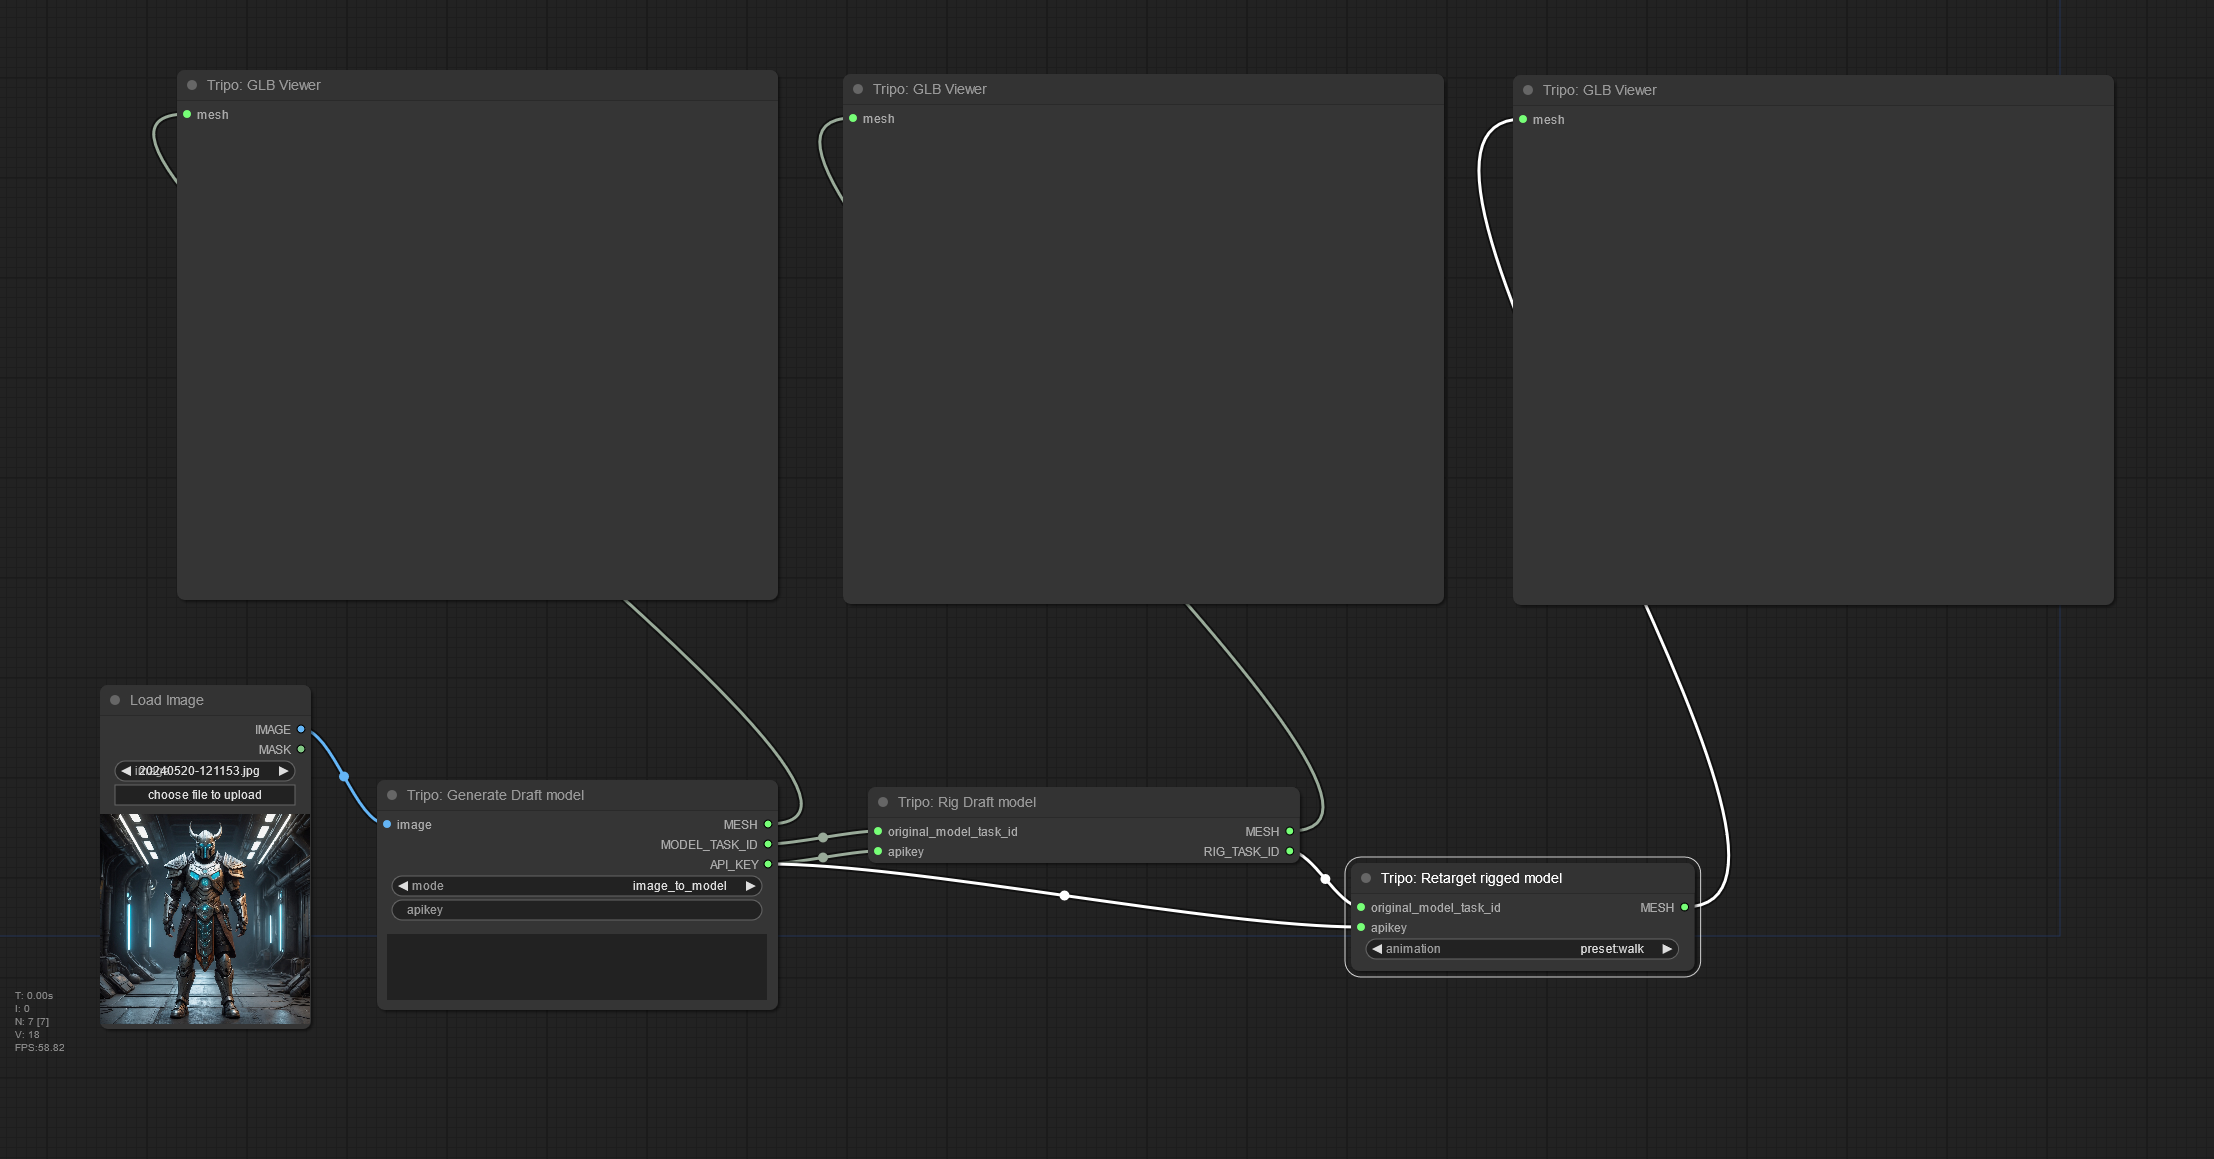
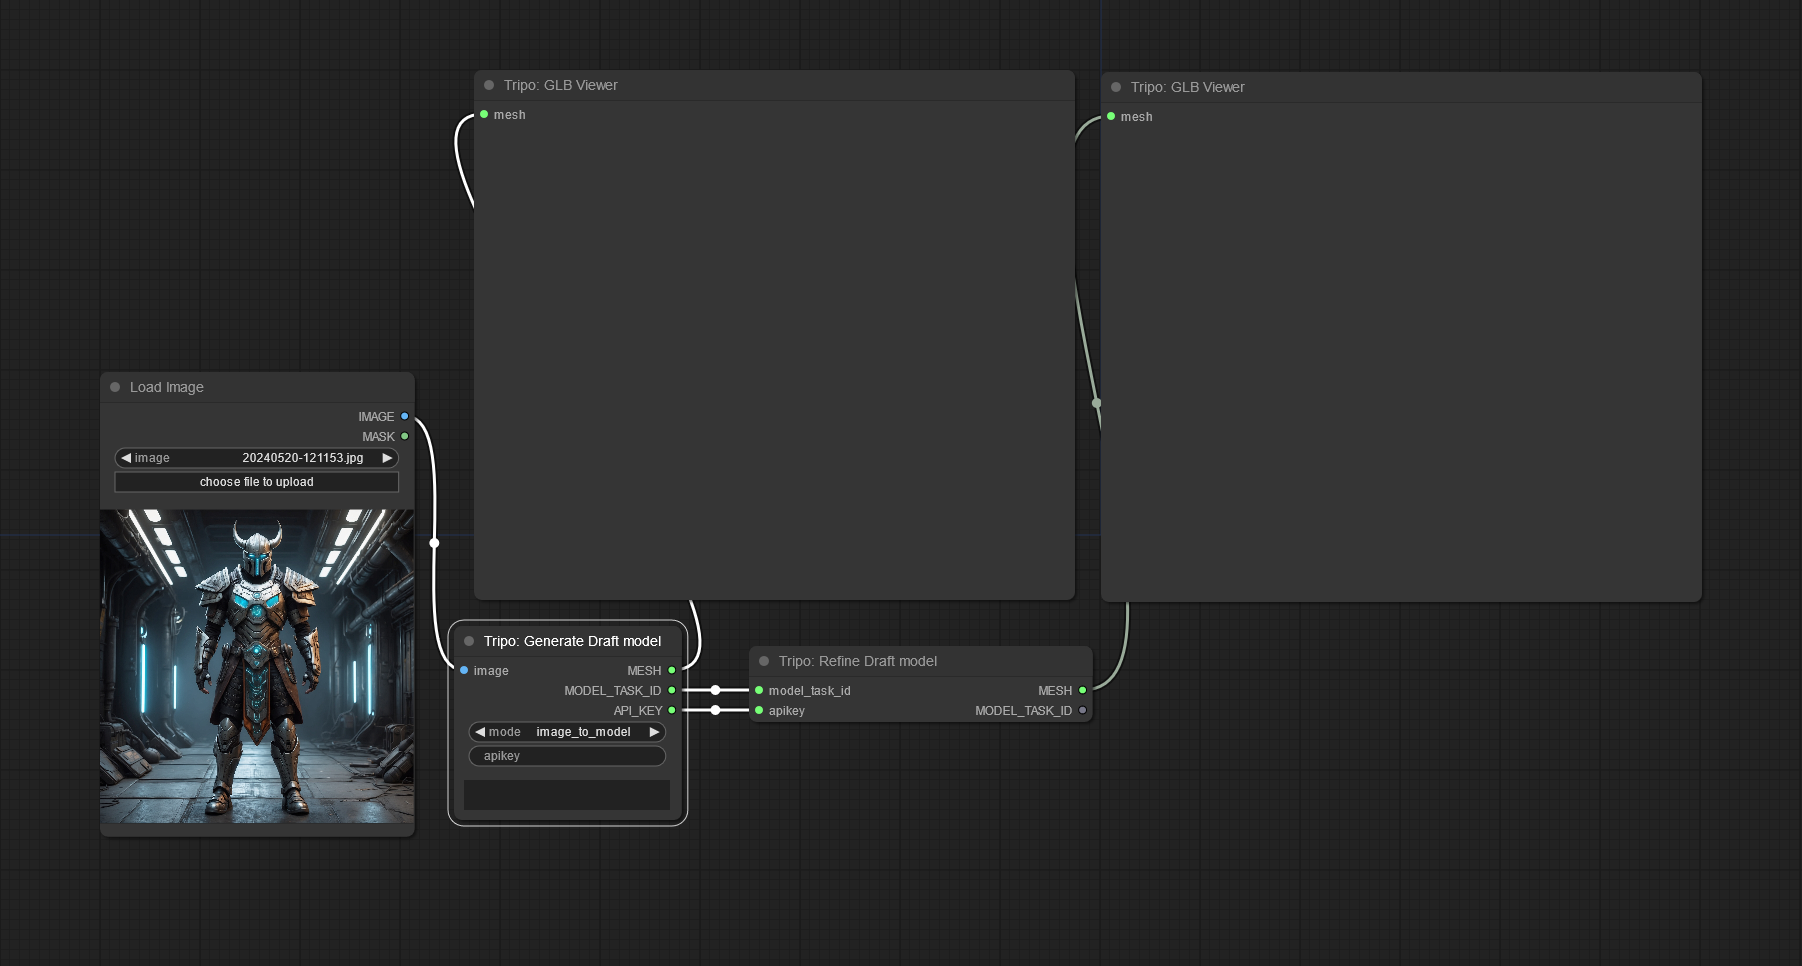
fix refine

diff --git a/__init__.py b/__init__.py
@@ -109,17 +109,17 @@ class TripoRefineModel:
             config["required"]["apikey"] = ("API_KEY",)
         return config
 
-    RETURN_TYPES = ("MODEL_Task_ID",)
+    RETURN_TYPES = ("MESH", "MODEL_TASK_ID",)
     FUNCTION = "generate_mesh"
     CATEGORY = "TripoAPI"
 
-    def generate_mesh(self, draft_model_task_id, apikey=None):
-        if not draft_model_task_id:
+    def generate_mesh(self, model_task_id, apikey=None):
+        if not model_task_id:
             raise RuntimeError("original_model_task_id is required")
         api, key = GetTripoAPI(apikey)
-        result = api.refine_draft(draft_model_task_id)
+        result = api.refine_draft(model_task_id)
         if result['status'] == 'success':
-            return ([result['model']], result['task_id'], key)
+            return ([result['model']], result['task_id'])
         else:
             raise RuntimeError(f"Failed to generate mesh: {result['message']}")
 
@@ -145,7 +145,7 @@ class TripoAnimateRigNode:
         api, key = GetTripoAPI(apikey)
         result = api.animate_rig(original_model_task_id)
         if result['status'] == 'success':
-            return ([result['model']], result['task_id'], key)
+            return ([result['model']], result['task_id'])
         else:
             raise RuntimeError(f"Failed to generate mesh: {result['message']}")
 
@@ -174,7 +174,7 @@ class TripoAnimateRetargetNode:
         api, key = GetTripoAPI(apikey)
         result = api.animate_retarget(original_model_task_id, animation)
         if result['status'] == 'success':
-            return ([result['model']], result['task_id'], key)
+            return ([result['model']])
         else:
             raise RuntimeError(f"Failed to generate mesh: {result['message']}")
 
